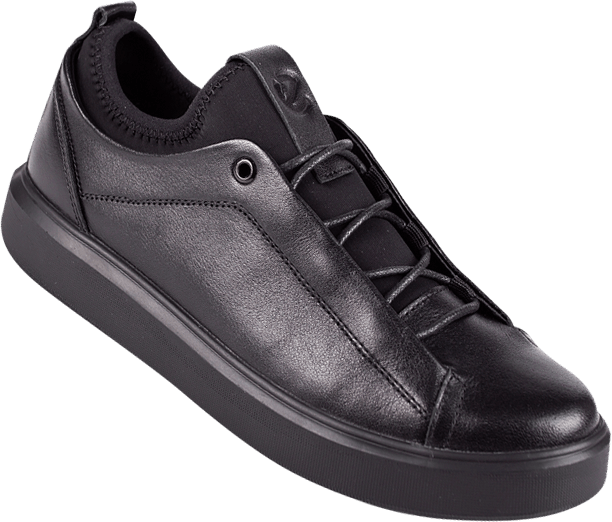
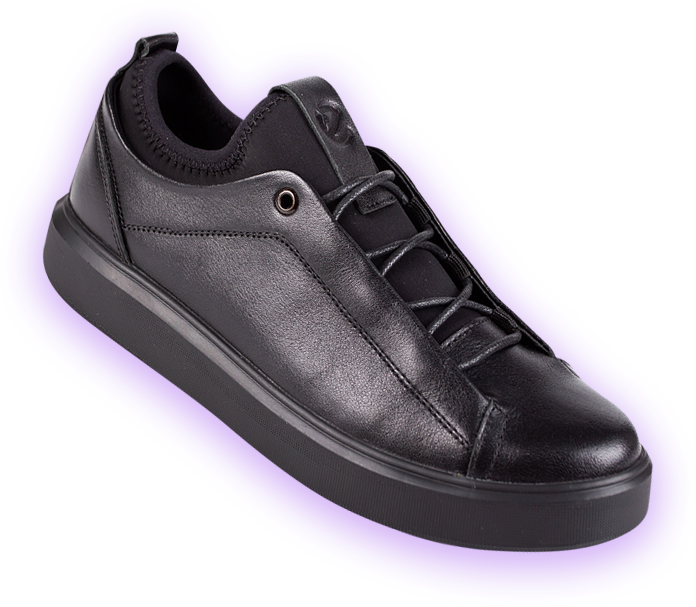
0.2

diff --git a/css/style.css b/css/style.css
@@ -140,15 +140,53 @@ ul {
 .intro__shoes-left {
   position: absolute;
   left: 15%;
-  top: 10%;
+  top: 9%;
   width: 612px;
 }
 
 .intro__shoes-right {
   position: absolute;
   right: 18%;
-  top: 11%;
+  top: 10%;
   width: 522px;
+}
+
+.intro__footer {
+  padding-top: 325px;
+  display: -webkit-box;
+  display: -ms-flexbox;
+  display: flex;
+  -webkit-box-orient: vertical;
+  -webkit-box-direction: normal;
+      -ms-flex-direction: column;
+          flex-direction: column;
+  -webkit-box-align: center;
+      -ms-flex-align: center;
+          align-items: center;
+}
+
+.intro__footer-title {
+  font-size: 40px;
+  color: #D7014D;
+  font-weight: 500;
+}
+
+.intro__footer-descr {
+  max-width: 537px;
+  text-align: center;
+  font-size: 18px;
+  color: #000851;
+  line-height: 24px;
+}
+
+.intro__footer-wrapper {
+  position: relative;
+  margin-top: 43px;
+}
+
+.intro__footer-image {
+  display: block;
+  padding-left: 25px;
 }
 
 .header {
@@ -175,4 +213,109 @@ ul {
 .btn__order:hover {
   background: #eb410e;
   color: #fff;
+}
+
+.btn__open-close {
+  position: absolute;
+  z-index: 1;
+  top: 40%;
+  left: -5%;
+  width: 45px;
+  height: 45px;
+  border-radius: 100%;
+  border: none;
+  cursor: pointer;
+  background: #d50450;
+}
+
+.btn__open-close:before, .btn__open-close:after {
+  position: absolute;
+  top: 12px;
+  left: 22px;
+  content: ' ';
+  height: 20px;
+  width: 2px;
+  background-color: #fff;
+}
+
+.btn__open-close:before {
+  -webkit-transform: rotate(0deg);
+          transform: rotate(0deg);
+}
+
+.btn__open-close:after {
+  -webkit-transform: rotate(90deg);
+          transform: rotate(90deg);
+}
+
+.btn__open-close-2 {
+  top: 4%;
+  right: 37%;
+  left: auto;
+}
+
+.btn__open-close-3 {
+  bottom: 15%;
+  right: 3%;
+  left: auto;
+  top: auto;
+}
+
+.card {
+  display: none;
+  position: absolute;
+  top: -12%;
+  left: -2%;
+  width: 286px;
+  min-height: 249px;
+  background: #000851;
+  padding: 31px 20px 50px 20px;
+  z-index: 3;
+  border-radius: 25px 25px 25px 0px;
+}
+
+.card_active {
+  display: block;
+}
+
+.card__img {
+  display: block;
+  margin: 0 auto;
+}
+
+.card__title {
+  margin-top: 25px;
+  font-size: 24px;
+  color: #FFEA00;
+  text-align: center;
+}
+
+.card__descr {
+  margin-top: 13px;
+  font-size: 18px;
+  text-align: center;
+  color: #fff;
+}
+
+.card-2 {
+  top: 8%;
+  left: 28%;
+  z-index: 2;
+  border-radius: 25px 0px 25px 25px;
+}
+
+.card-2_active {
+  display: block;
+}
+
+.card-3 {
+  top: 24%;
+  left: auto;
+  right: 5%;
+  z-index: 2;
+  border-radius: 25px 25px 0px 25px;
+}
+
+.card-3_active {
+  display: block;
 }

diff --git a/index.html b/index.html
@@ -33,8 +33,41 @@
             </div>
             <img src="img/left-shoes.png" alt="" class="intro__shoes-left">
             <img src="img/right-shoes.png" alt="" class="intro__shoes-right">
-        </div>
+            <div class="intro__footer">
+                <h2 class="intro__footer-title">Lorem ipsum dolor</h2>
+                <div class="intro__footer-descr">
+                    Lorem ipsum dolor sit amet, consectetur adipisicing elit, sed do eiusmod tempor incididunt ut labore
+                    et dolore magna
+                </div>
+                <div class="intro__footer-wrapper">
+                    <img src="img/shoes.png" alt="footer-image" class="intro__footer-image">
+                    <button class="btn__open-close"></button>
+                    <button class="btn__open-close btn__open-close-2"></button>
+                    <button class="btn__open-close btn__open-close-3"></button>
+                    <div class="card">
+                        <img src="icons/card-icons1.svg" alt="card-icons" class="card__img">
+                        <div class="card__title">Lorem ipsum dolor</div>
+                        <div class="card__descr">
+                            Lorem ipsum dolor sit amet, consectetur adipiscing elit, sed do
+                        </div>
+                    </div>
+                    <div class="card card-2">
+                        <img src="icons/card-icons2.svg" alt="card-icons" class="card__img">
+                        <div class="card__title">Lorem ipsum dolor</div>
+                        <div class="card__descr">
+                            Lorem ipsum dolor sit amet, consectetur adipiscing elit, sed do
+                        </div>
+                    </div>
+                    <div class="card card-3">
+                        <img src="icons/card-icons3.svg" alt="card-icons" class="card__img">
+                        <div class="card__title">Lorem ipsum dolor</div>
+                        <div class="card__descr">
+                            Lorem ipsum dolor sit amet, consectetur adipiscing elit, sed do
+                        </div>
+                    </div>
+                </div>
     </section>
+    <script src="js/script.js"></script>
 </body>
 
 </html>

diff --git a/sass/blocks/_card.scss b/sass/blocks/_card.scss
@@ -1,0 +1,52 @@
+.card {
+    display: none;
+    position: absolute;
+    top: -12%;
+    left: -2%;
+    width: 286px;
+    min-height: 249px;
+    background: #000851;
+    padding: 31px 20px 50px 20px;
+    z-index: 3;
+    border-radius: 25px 25px 25px 0px;
+    &_active {
+        display: block;
+    }
+    &__img {
+        display: block;
+        margin: 0 auto;
+    }
+    &__title {
+        margin-top: 25px;
+        font-size: 24px;
+        color: #FFEA00;
+        text-align: center;
+    }
+    &__descr {
+        margin-top: 13px;
+        font-size: 18px;
+        text-align: center;
+        color: #fff;
+    }
+
+    &-2 {
+        top: 8%;
+        left: 28%;
+        z-index: 2;
+        border-radius: 25px 0px 25px 25px;
+        &_active {
+            display: block;
+        }
+    }
+
+    &-3 {
+        top: 24%;
+        left: auto;
+        right: 5%;
+        z-index: 2;
+        border-radius: 25px 25px 0px 25px;
+        &_active {
+            display: block;
+        }
+    }
+}

diff --git a/sass/blocks/_intro.scss b/sass/blocks/_intro.scss
@@ -74,15 +74,44 @@
     &__shoes-left {
         position: absolute;
         left: 15%;
-        top: 10%;
+        top: 9%;
         width: 612px;
     }
 
     &__shoes-right {
         position: absolute;
         right: 18%;
-        top: 11%;
+        top: 10%;
         width: 522px;
     }
 
+    &__footer {
+        padding-top: 325px;
+        display: flex;
+        flex-direction: column;
+        align-items: center;
+    }
+
+    &__footer-title {
+        font-size: 40px;
+        color: #D7014D;
+        font-weight: 500;
+    }
+    
+    &__footer-descr {
+        max-width: 537px;
+        text-align: center;
+        font-size: 18px;
+        color: #000851;
+        line-height: 24px;
+    }
+    &__footer-wrapper {
+        position: relative;
+        margin-top: 43px;
+
+    }
+    &__footer-image {
+        display: block;
+        padding-left: 25px;
+    }
 }

diff --git a/sass/blocks/_buttons.scss b/sass/blocks/_buttons.scss
@@ -17,3 +17,46 @@
         color: #fff;
     }
 }
+
+.btn__open-close {
+    position: absolute;
+    z-index: 1;
+    top: 40%;
+    left: -5%;
+    width: 45px;
+    height: 45px;
+    border-radius: 100%;
+    border: none;
+    cursor: pointer;
+    background: #d50450;
+      &:before, &:after {
+        position: absolute;
+        top: 12px;
+        left: 22px;
+        content: ' ';
+        height: 20px;
+        width: 2px;
+        background-color: #fff;
+      }
+      &:before {
+        transform: rotate(0deg);
+      }
+      &:after {
+        transform: rotate(90deg);
+      }
+
+      &-2 {
+        top: 4%;
+        right: 37%;
+        left: auto;
+      }
+
+      &-3 {
+        bottom: 15%;
+        right: 3%;
+        left: auto;
+        top: auto;
+      }
+      
+}
+

diff --git a/js/script.js b/js/script.js
@@ -1,0 +1,20 @@
+"use strict";
+
+const closeCard = document.querySelector(".btn__open-close");
+const closeCard2 = document.querySelector(".btn__open-close-2");
+const closeCard3 = document.querySelector(".btn__open-close-3");
+const card = document.querySelector(".card");
+const card2 = document.querySelector(".card-2");
+const card3 = document.querySelector(".card-3");
+
+closeCard.addEventListener("click", function() {
+    card.classList.toggle("card_active");
+});
+
+closeCard2.addEventListener("click", function() {
+    card2.classList.toggle("card-2_active");
+});
+
+closeCard3.addEventListener("click", function() {
+    card3.classList.toggle("card-3_active");
+});

diff --git a/sass/style.scss b/sass/style.scss
@@ -28,3 +28,4 @@ ul {
 @import "blocks/intro";
 @import "blocks/header";
 @import "blocks/buttons";
+@import "blocks/card"
